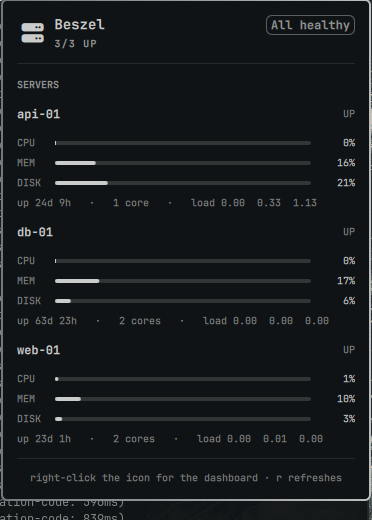
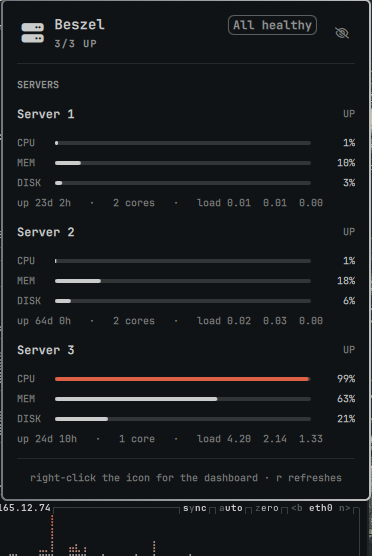
Document the eye toggle and show the masked default in the README
The screenshot now shows what a new install actually looks like, which is
also the state that is safe to publish.

diff --git a/README.md b/README.md
@@ -6,6 +6,8 @@ panel with per-server CPU, memory, and disk meters.
 
 ![The panel, healthy](screenshots/panel.png)
 
+Sensitive details are hidden by default — click the eye to reveal them.
+
 ## Install
 
 ```bash
@@ -45,6 +47,7 @@ freezing its last reading as though it were current.
 | Left click | Toggle the panel |
 | Right click | Open the Beszel dashboard |
 | Middle click | Force a refresh |
+| Eye (in the panel) | Reveal sensitive details for this viewing |
 | `r` | Refresh (panel focused) |
 | Arrows | Scroll |
 | `Esc` | Close |
@@ -56,6 +59,7 @@ freezing its last reading as though it were current.
 
 | Key | Default | Meaning |
 |---|---|---|
+| `maskSensitive` | `On` | Hide server names, addresses, and hub URL behind the eye |
 | `hubUrl` | — | e.g. `http://localhost:8090` |
 | `email` | — | Beszel user account |
 | `password` | — | Plain text in `shell.json` — prefer `setup` |
@@ -130,6 +134,19 @@ directory and reads the password with `read -s`, so it stays out of your shell
 history and scrollback. The cached session token is written `0600` in a `0700`
 directory, with an explicit `chmod` — `O_CREAT` does not tighten a file that
 already exists. The password is never included in the helper's JSON output.
+
+**Sensitive details are hidden by default.** Server names identify projects and
+the label line carries provider and IP, so the panel withholds both — along
+with the hub URL, and the username in the setup path — until you click the eye
+in the hero. Masked rows keep their position (`Server 2`), so the panel stays
+readable at a glance; the metrics themselves reveal nothing. Revealing lasts
+only for that viewing: closing the panel re-arms the mask, so it cannot be left
+off by accident before a screen share. Set **Hide sensitive details** to `Off`
+to opt out, or bind the toggle:
+
+```bash
+omarchy-shell skoom.beszel toggleReveal
+```
 
 **The hub is treated as untrusted.** A hub you do not control — or one that has
 been compromised — is a hostile input source, and the plugin is built to assume
